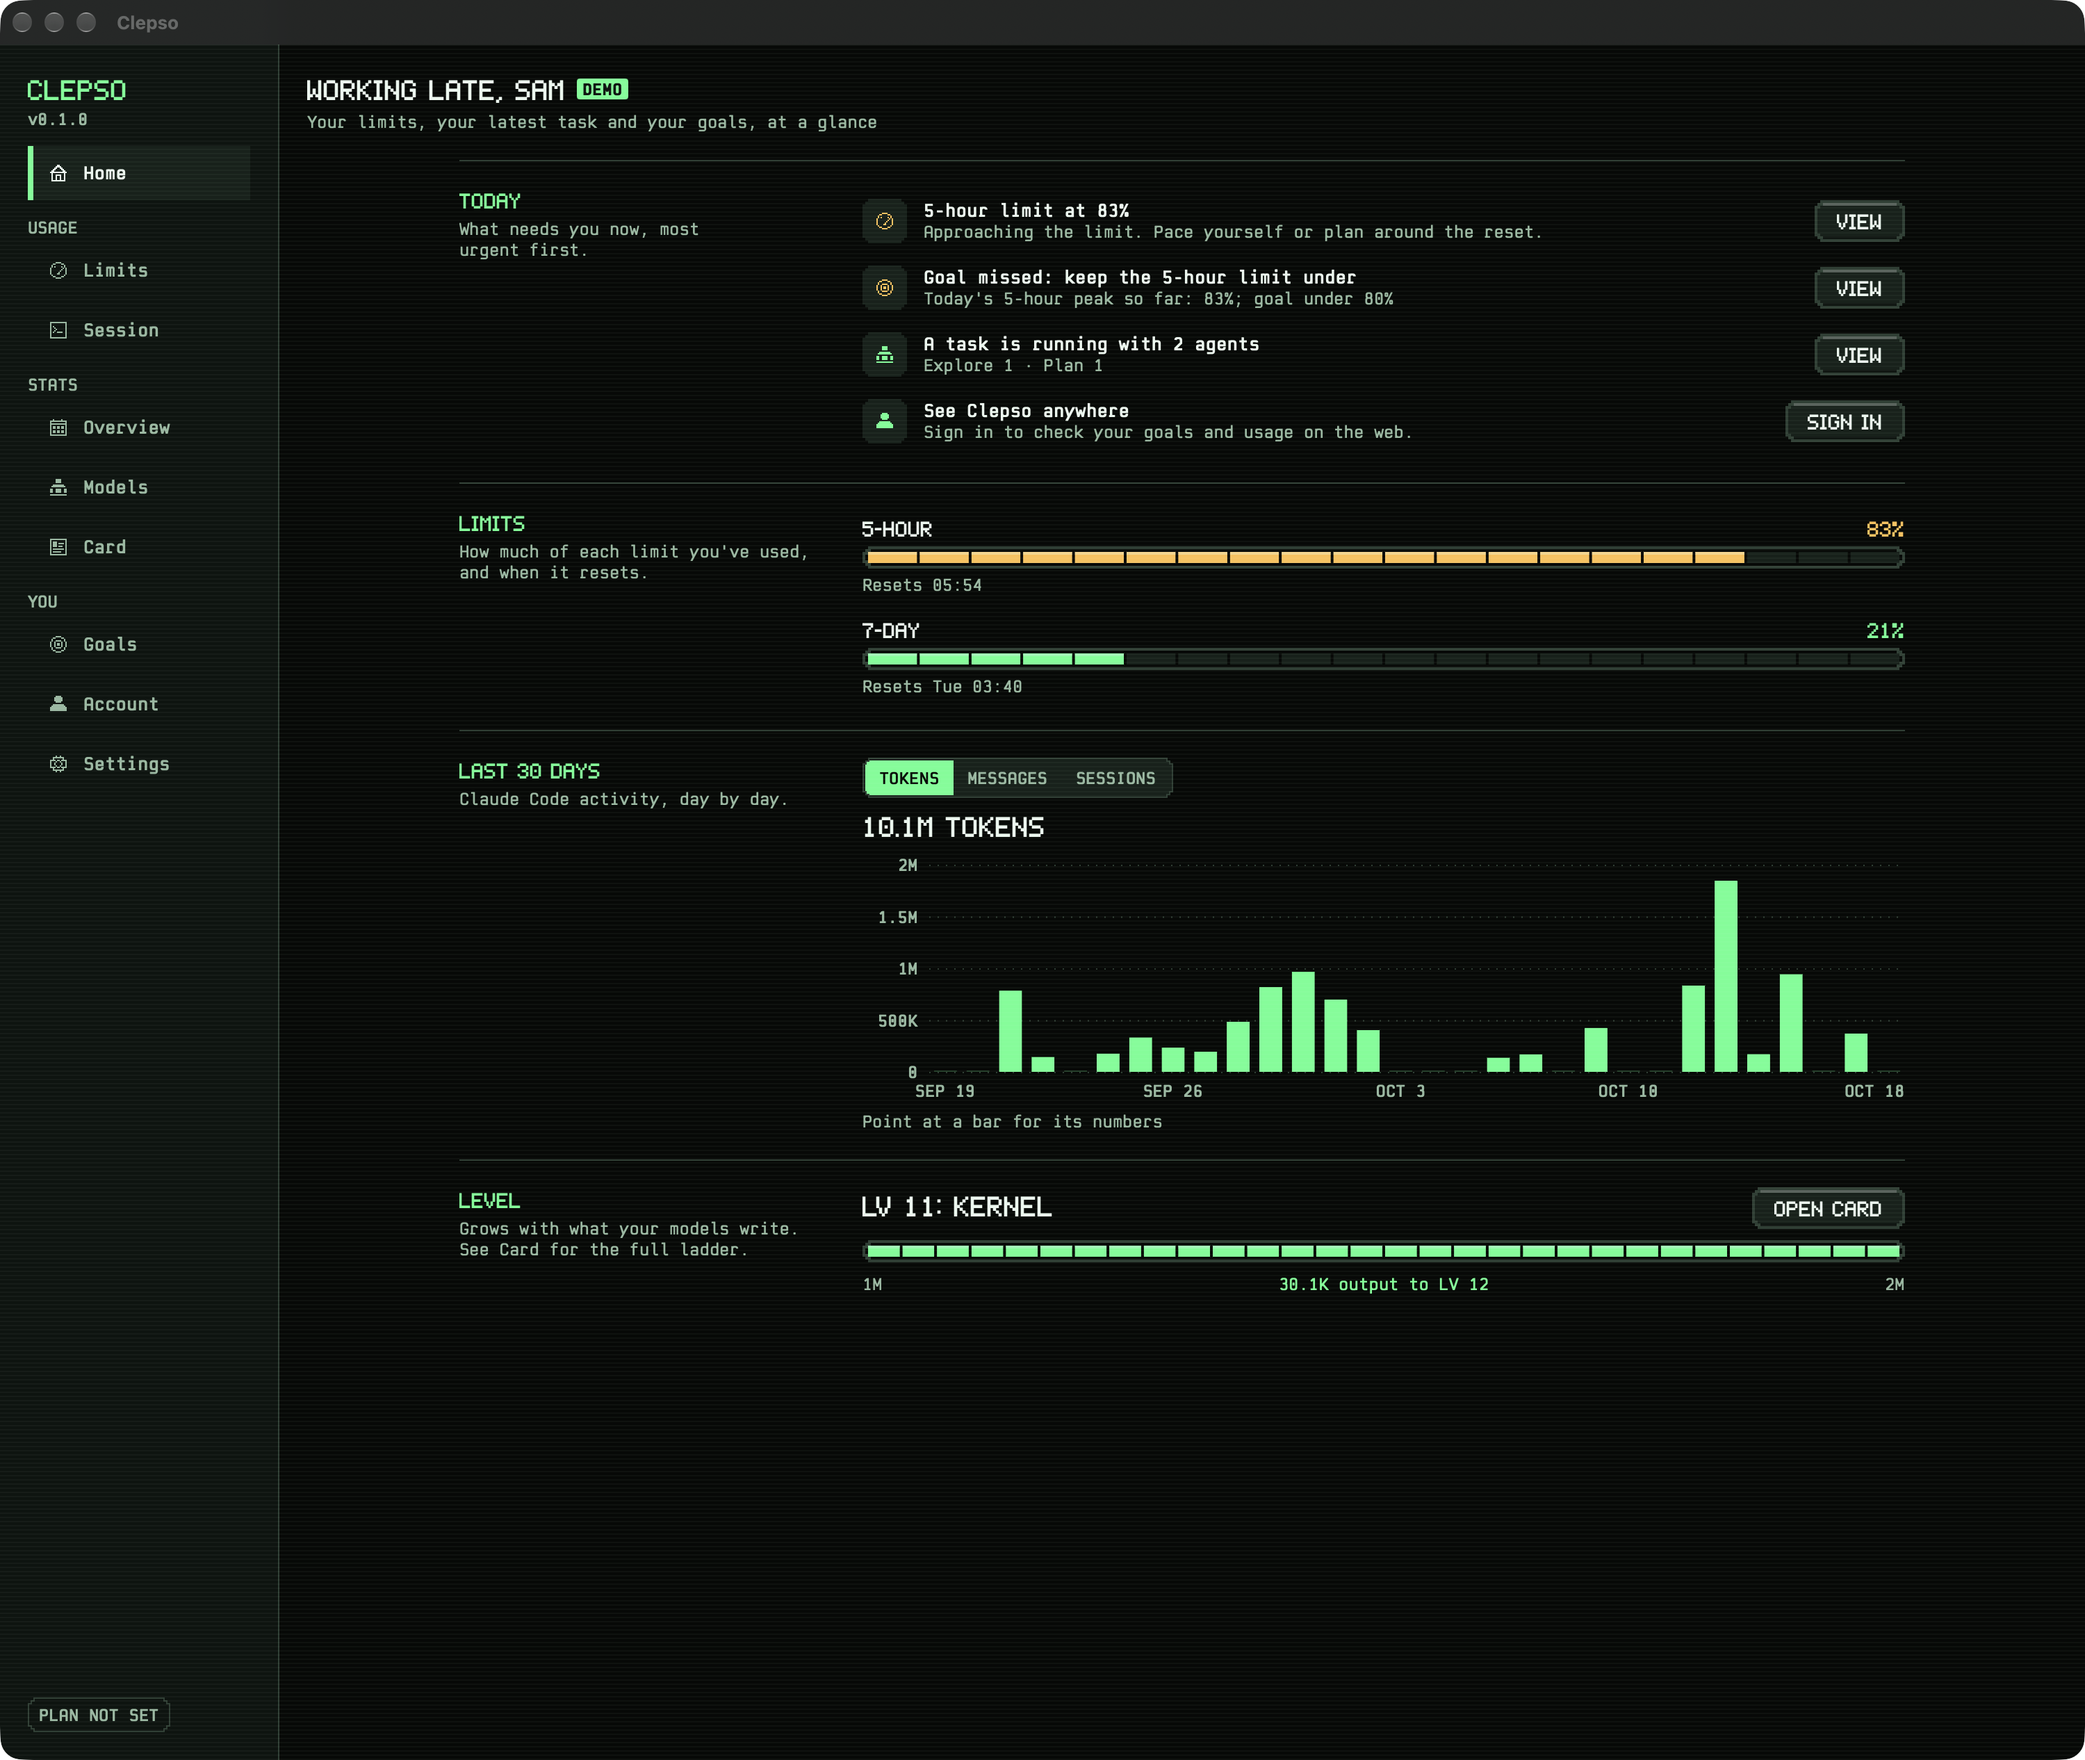
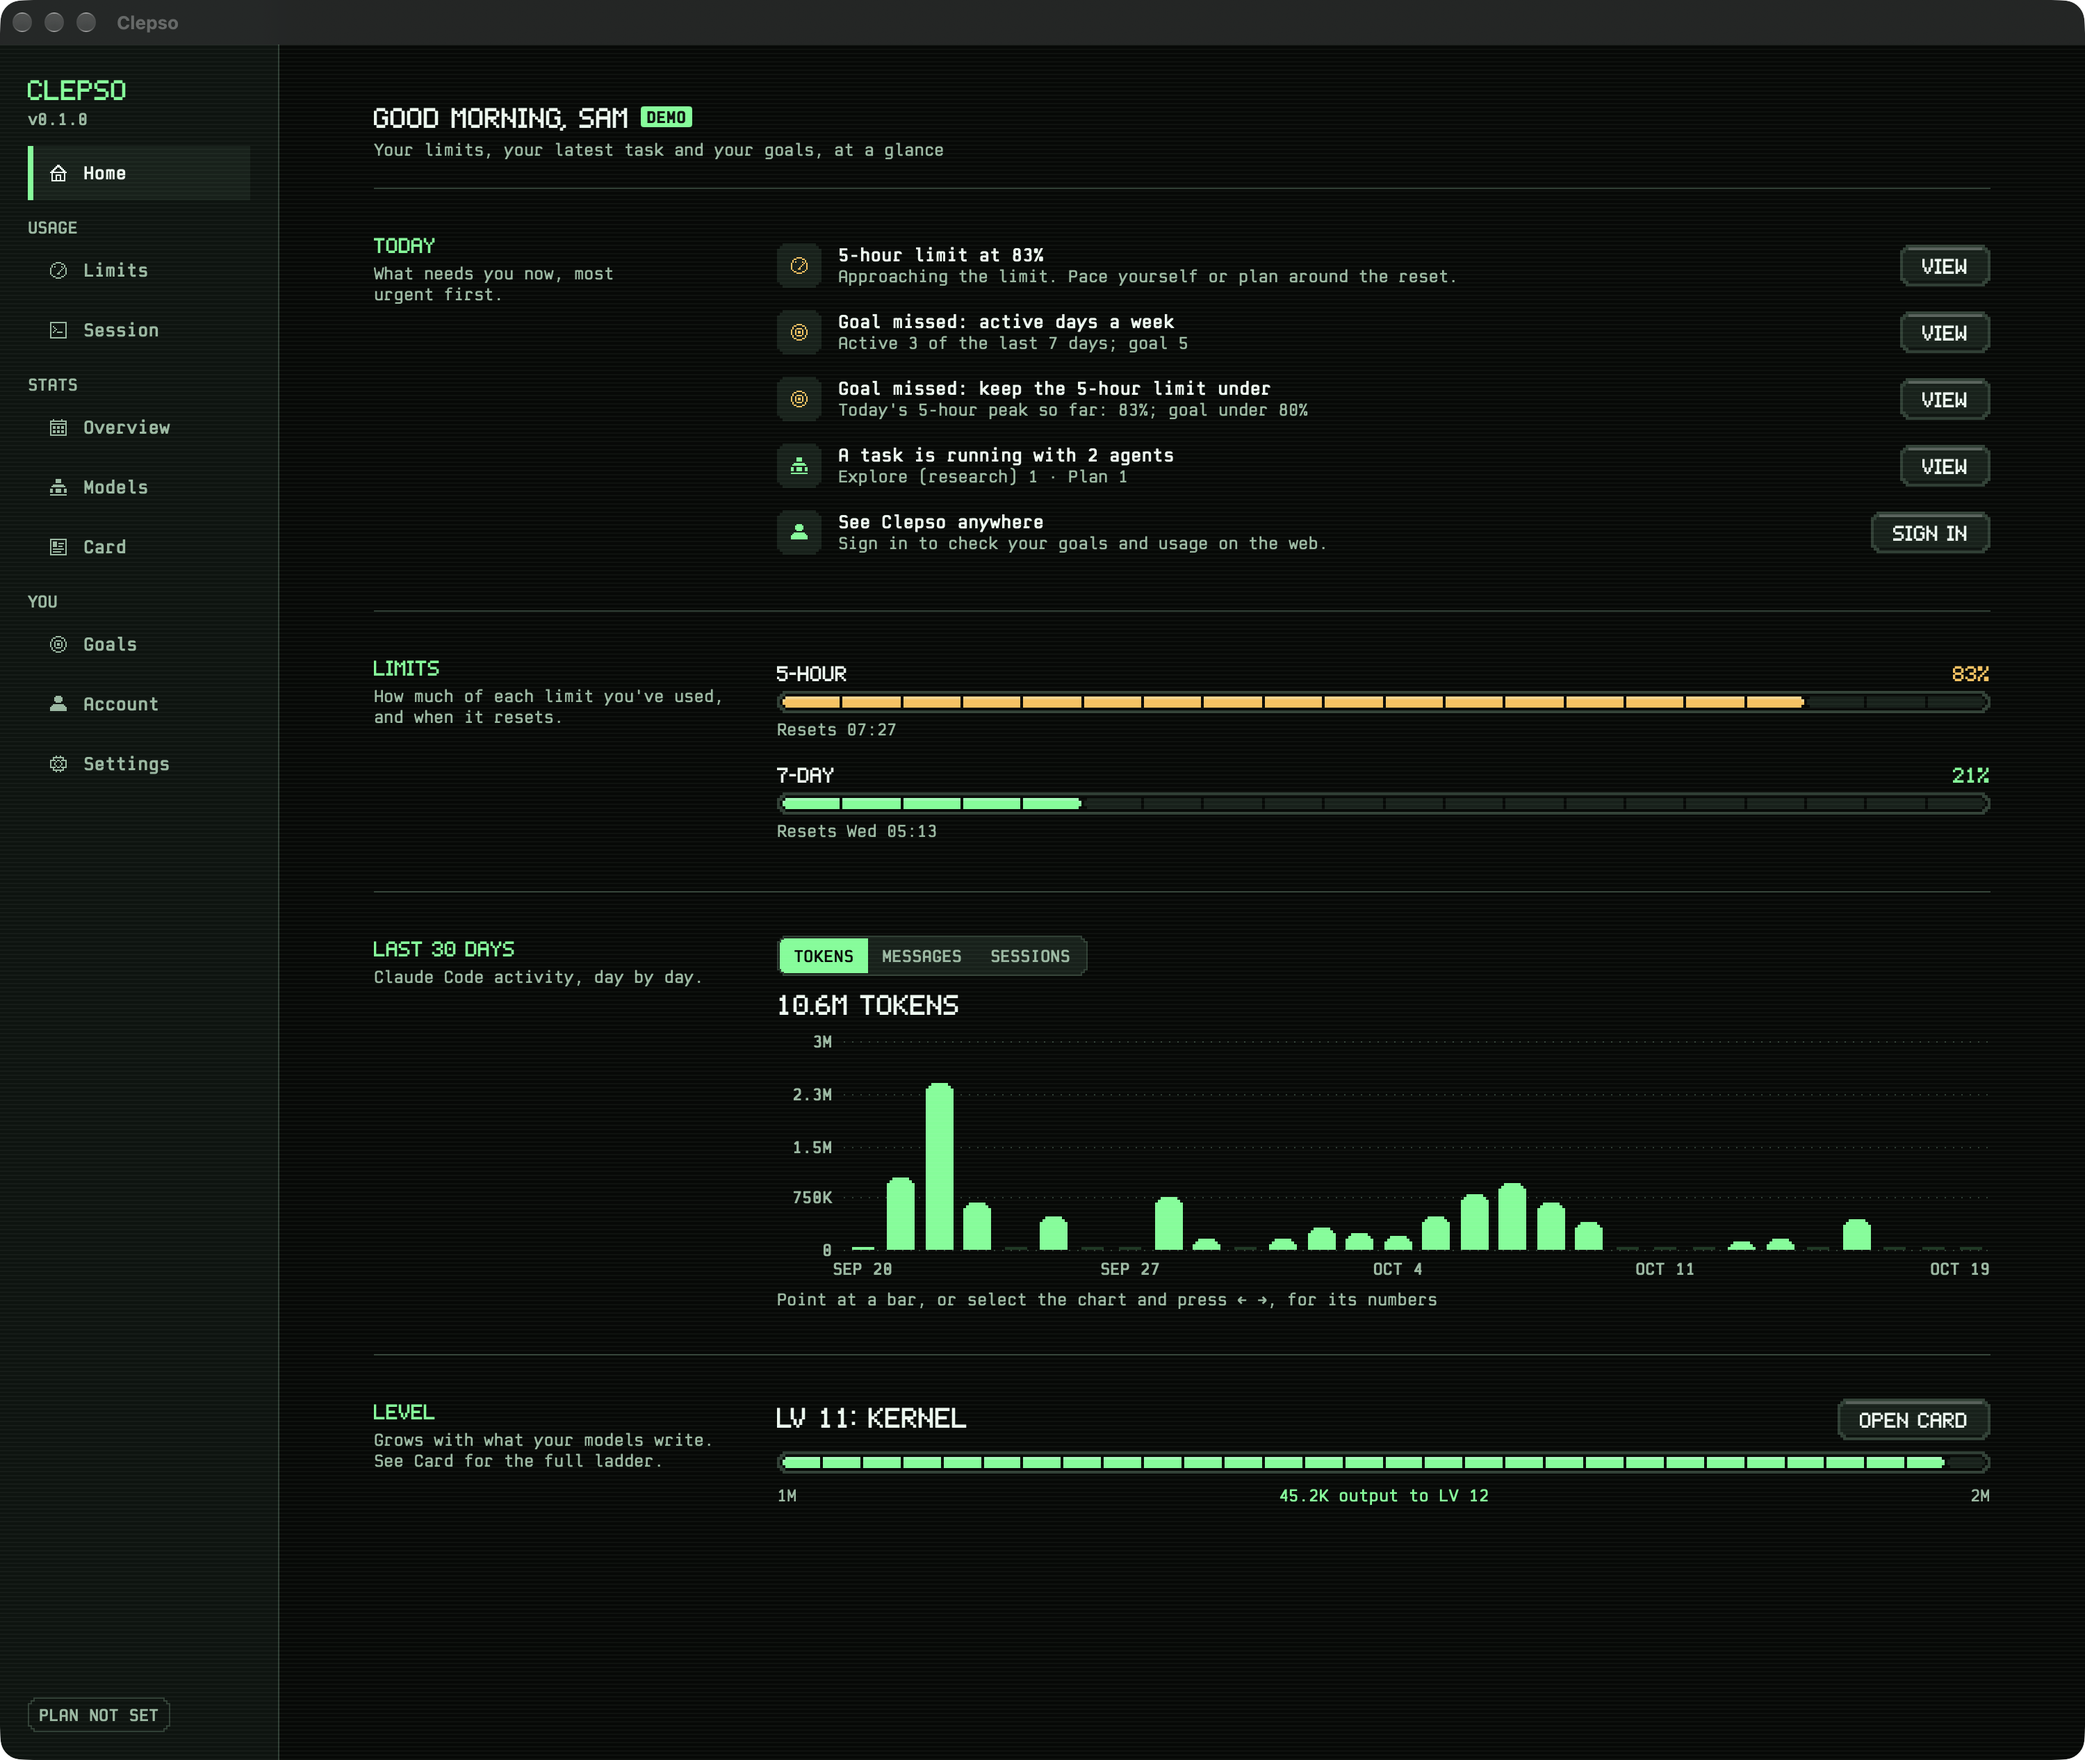
README: screenshots from tonight's app, and the new Models screen (#7)
## What

The README's screenshots were taken before tonight's changes. This PR
regenerates every image in `design/screens/` from the current code with
the screenshot probe (demo scenario only), and adds a light/dark pair
for the redesigned **Models** screen under "The Dashboard".

- Every screen is from the built-in demo scenario: the DEMO badge on
each one, the profile name "Sam", and the synthetic statistics file from
`scripts/probe-home.py`. The onboarding consent screen shows a neutral
`/tmp/crs-h` probe home path.
- What you can now see in the images: pixel progress bars and bar
charts, the agents panel with "Running now" (Session), the Models
roster, dossier and level track, quiet hours and reset reminders
(Settings), the 30-day calendar band (Overview, 30 days), and the
popover's new footer.
- All Dashboard pages are now captured at one window size, 1500 × 1266
pt (`-ClepsoProbeWidth 1500`). Before, Limits, Session and Stats were
1693 × 1018 pt. Popover and onboarding sizes are the same as before.
- The PNGs are re-encoded losslessly (pixel-identical to the capture).
Every file is now under 330 KB; the largest used to be 754 KB.
- README: adds the Models `<picture>` (`details-stats-arena.png` / new
`details-stats-arena-light.png`) with a one-line caption. Home's alt
text now says "two missed goals", which is what the demo shows. No other
text changes.

## Checked and left unchanged

- `docs/readme/menubar-states-{light,dark}.png`:
[…]

diff --git a/README.md b/README.md
@@ -82,7 +82,7 @@ Everything below exists in the code on `main`. Items marked *opt-in* stay off un
   <picture>
     <source media="(prefers-color-scheme: dark)" srcset="design/screens/details-home.png">
     <source media="(prefers-color-scheme: light)" srcset="design/screens/details-home-light.png">
-    <img src="design/screens/details-home-light.png" width="860" alt="Dashboard Home with demo data: a greeting, what needs attention today (the 5-hour limit at 83%, a missed goal, a task running with two agents), both limits, a 30-day token chart and the current level">
+    <img src="design/screens/details-home-light.png" width="860" alt="Dashboard Home with demo data: a greeting, what needs attention today (the 5-hour limit at 83%, two missed goals, a task running with two agents), both limits, a 30-day token chart and the current level">
   </picture>
 </p>
 
@@ -103,6 +103,16 @@ Everything below exists in the code on `main`. Items marked *opt-in* stay off un
 <p align="center">
   <img src="design/screens/details-limits.png" width="860" alt="Dashboard Limits with demo data: the 5-hour and 7-day limits each charted over their own window, with 80% and 95% bands, a now marker and a dashed pace estimate">
 </p>
+
+<p align="center">
+  <picture>
+    <source media="(prefers-color-scheme: dark)" srcset="design/screens/details-stats-arena.png">
+    <source media="(prefers-color-scheme: light)" srcset="design/screens/details-stats-arena-light.png">
+    <img src="design/screens/details-stats-arena-light.png" width="860" alt="Dashboard Models with demo data: a ranked roster of three models with tokens, share and level; the chosen model's dossier with tokens by kind, a level track to the next target, specialty and an activity band; and the ladder of levels with how to level up">
+  </picture>
+</p>
+
+<p align="center"><sub>Models: a ranked roster, the chosen model's dossier and the level ladder (only output tokens count towards a level).</sub></p>
 
 Every self-drawn control has a pixel focus ring, charts and the calendar move with the arrow keys, <kbd>⌘</kbd><kbd>,</kbd>
 opens Settings, and all animation goes through one Reduce Motion switch ([`docs/A11Y_CHECKS.md`](docs/A11Y_CHECKS.md)).
